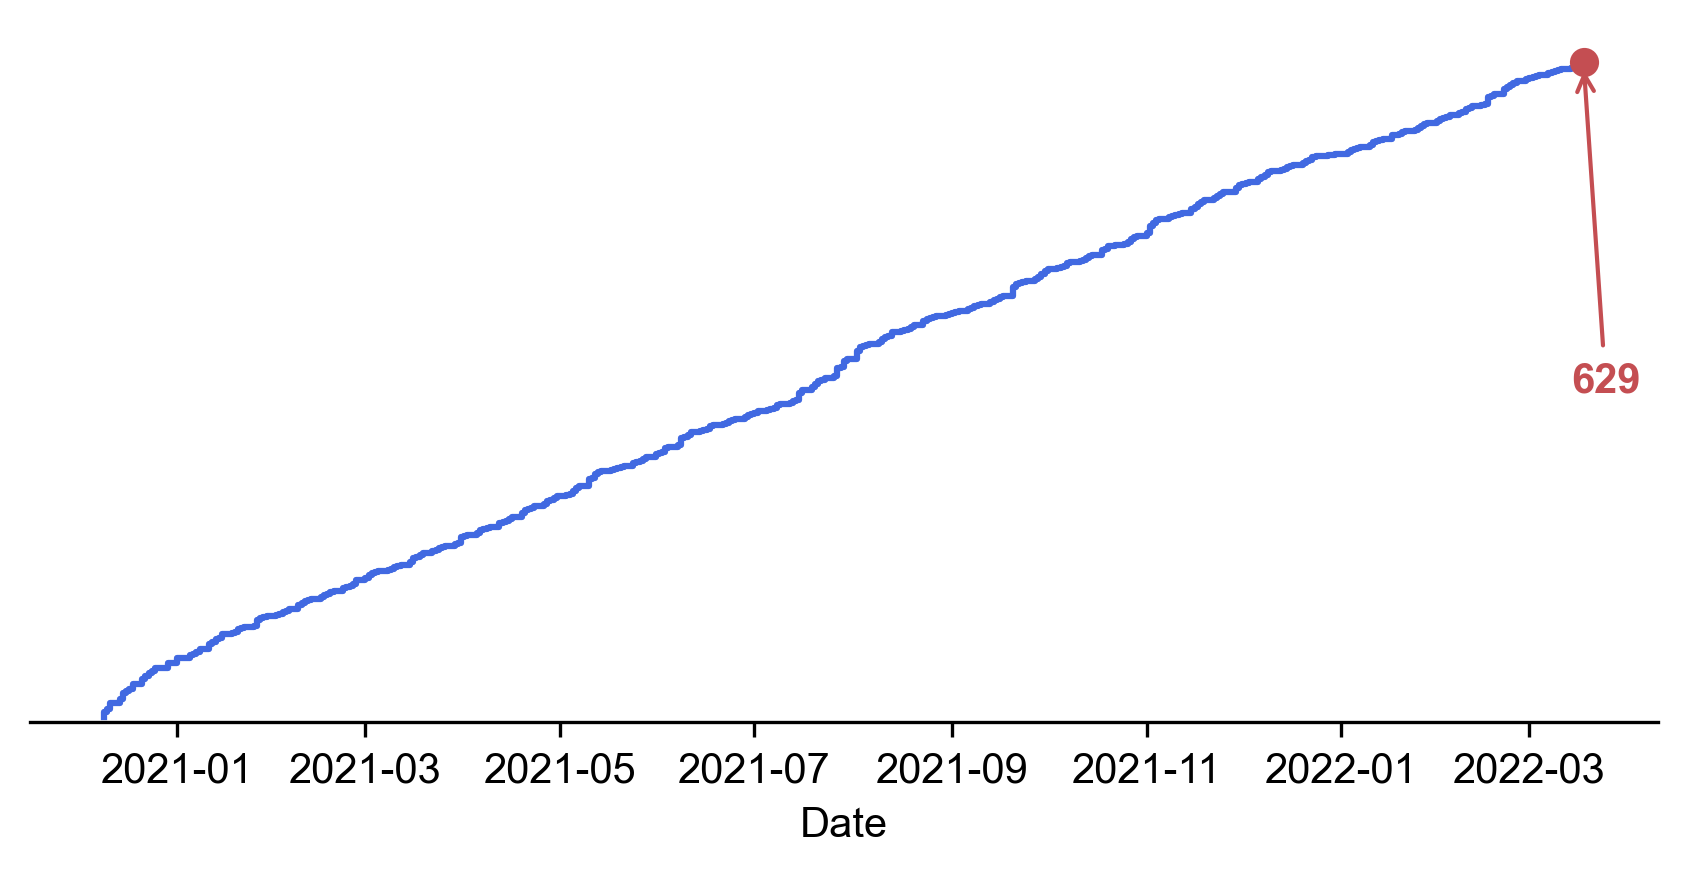
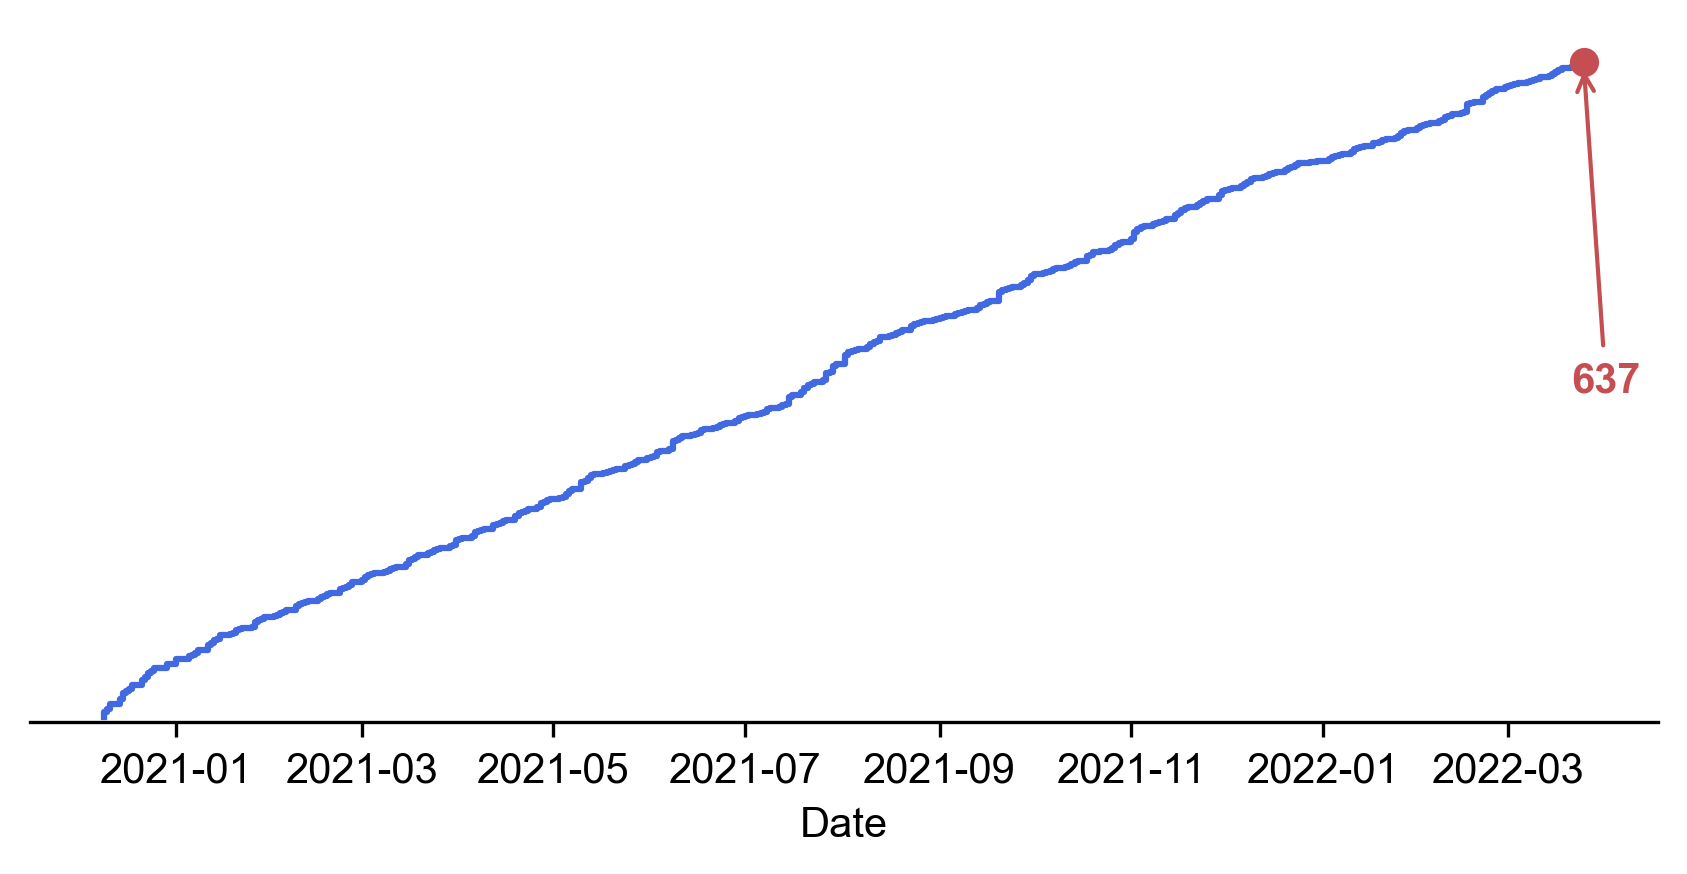
2022-03-26

diff --git a/2022/03/AstroPH-2022-03.md b/2022/03/AstroPH-2022-03.md
@@ -145,3 +145,67 @@
 
 ## 2022-03-21
 
+1. [The IAU Working Definition of an Exoplanet](https://arxiv.org/abs/2203.09520)
+
+   > Exoplanet, Definition
+
+   **行星** - 围绕恒星、褐矮星或者恒星残骸运行，最大质量低于氘聚变的天体（13个木星质量的太阳金属丰度的天体），与中心天体质量比低于$L_4/L_5$不稳定性（$M/M_c<1/25$），最小质量与太阳系内相同，自重足够克服刚体力，并且足以清除轨道周围邻域。
+
+2. [The Life and Times of Giant Molecular Clouds](https://arxiv.org/abs/2203.09570)
+
+   > Star Formation, ISM
+
+   巨分子云形成与演化综述。
+
+## 2022-03-22
+
+1. [Magnetic fields in star formation: from clouds to cores](https://arxiv.org/abs/2203.11179)
+
+   > Star Formation, ISM, Magnetic Field
+
+   回顾磁场在恒星形成过程中作用的研究进展。最近的结果支持磁场在云的次级结果形成种有重要作用，它为分子云中大规模气体流动设定了首选方向，引导物质吸积到纤维和恒星形成中心。
+
+## 2022-03-23
+
+1. [Wide-Band Spectral Variability of Peaked Spectrum Sources](https://arxiv.org/abs/2203.11466)
+
+   > Galaxy, Radio Continuum, Spectrum
+
+   射电连续谱的变化可以用来研究源结构、介质的发射和吸收过程。使用`ATCA`和`MWA`对15个`Peaked Spectrum`源进行了宽带$0.072-10\, \rm GHz$的观测，在$1\,\rm GHz$以上没有检测到光谱变化，其中13个在$1\,\rm MHz$频率下看到了变化，认为是一个直径为$25\,\rm mas$的致密成分的折射导致的闪烁。
+
+   <img src="Figures/image-20220323180042153.png" alt="image-20220323180042153" style="zoom:50%;" />
+
+2. [Update on the Systematics in the ALMA Proposal Review Process after Cycle 8](https://arxiv.org/abs/2203.11334)
+
+   > ALMA, Proposal, Systematics
+
+   `ALMA`提案的系统性分析。第七轮给了评审小组PI的整体名单，第八轮名单都没有。有过ALMA申请经验的提案总体排名更好。第二次提交的排名相比之前有所提高。来自智利、东亚的PI比欧洲和北美的有较差的总体排名，排名没有性别差异。
+
+## 2022-03-24
+
+1. [A time-resolved picture of our Milky Way's early formation history](https://arxiv.org/abs/2203.12110)
+
+   > Milky Way, Stellar, Isochrone
+
+   基于`Yonsei-Yale stellar evolution models`产生的等龄线，结合Gaia和LAMOST数据，产生恒星年龄和金属丰度的大样本。
+
+   在$8\,\rm Gyr$处可以将恒星的金属性分成两部分，较年轻的部分反映银盘形成的晚期，另一部分反映早期阶段银晕和厚盘形成时期。在大爆炸后$0.8\,\rm Gyr$，银河系厚盘开始形成（也即距今$13\,\rm Gyr$之前），恒星大部分形成于这之后$2\,\rm Gyr$。此时`Gaia-Sausage-Enceladus`与银河系合并，并在接下来$5-6\,\rm Gyr$，银河系元素富集了10倍。
+
+   <img src="Figures/image-20220324183916813.png" alt="image-20220324183916813" style="zoom:50%;" />
+
+2. [sympy2c: from symbolic expressions to fast C/C++ functions and ODE solvers in Python](https://arxiv.org/abs/2203.11945)
+
+   > Software, Cosmology
+
+   [sympy2c](https://cosmology.ethz.ch/research/software-lab/sympy2c.html)，`SymPy`的`C++`封装，可从符号表示创建计算公式，在`PyCosmo`中用来求解爱因斯坦-玻尔兹曼方程。
+
+## 2022-03-25
+
+1. [What it takes to measure Reionization with Fast Radio Bursts](https://arxiv.org/abs/2203.12645)
+
+   > Fast Radio Burst, Cosmology
+
+   使用$100$个$z>5$的FRB，`FlexKnot`参数化可以做到对再电离$4\%$精度的约束。
+
+## 2022-03-28
+
